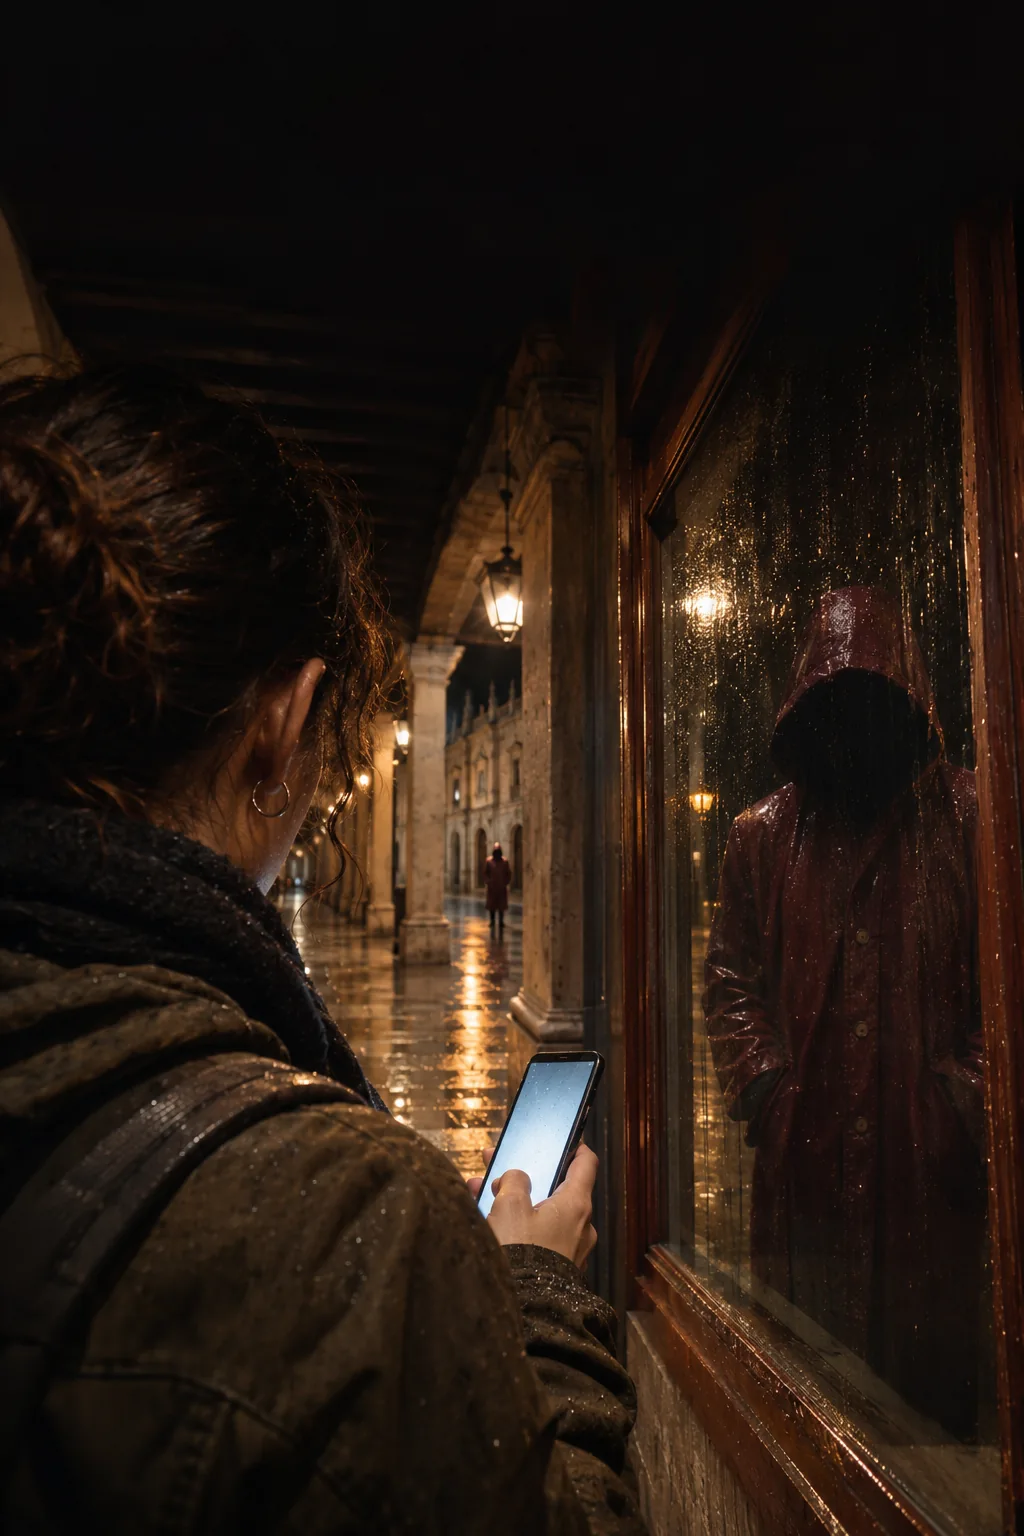
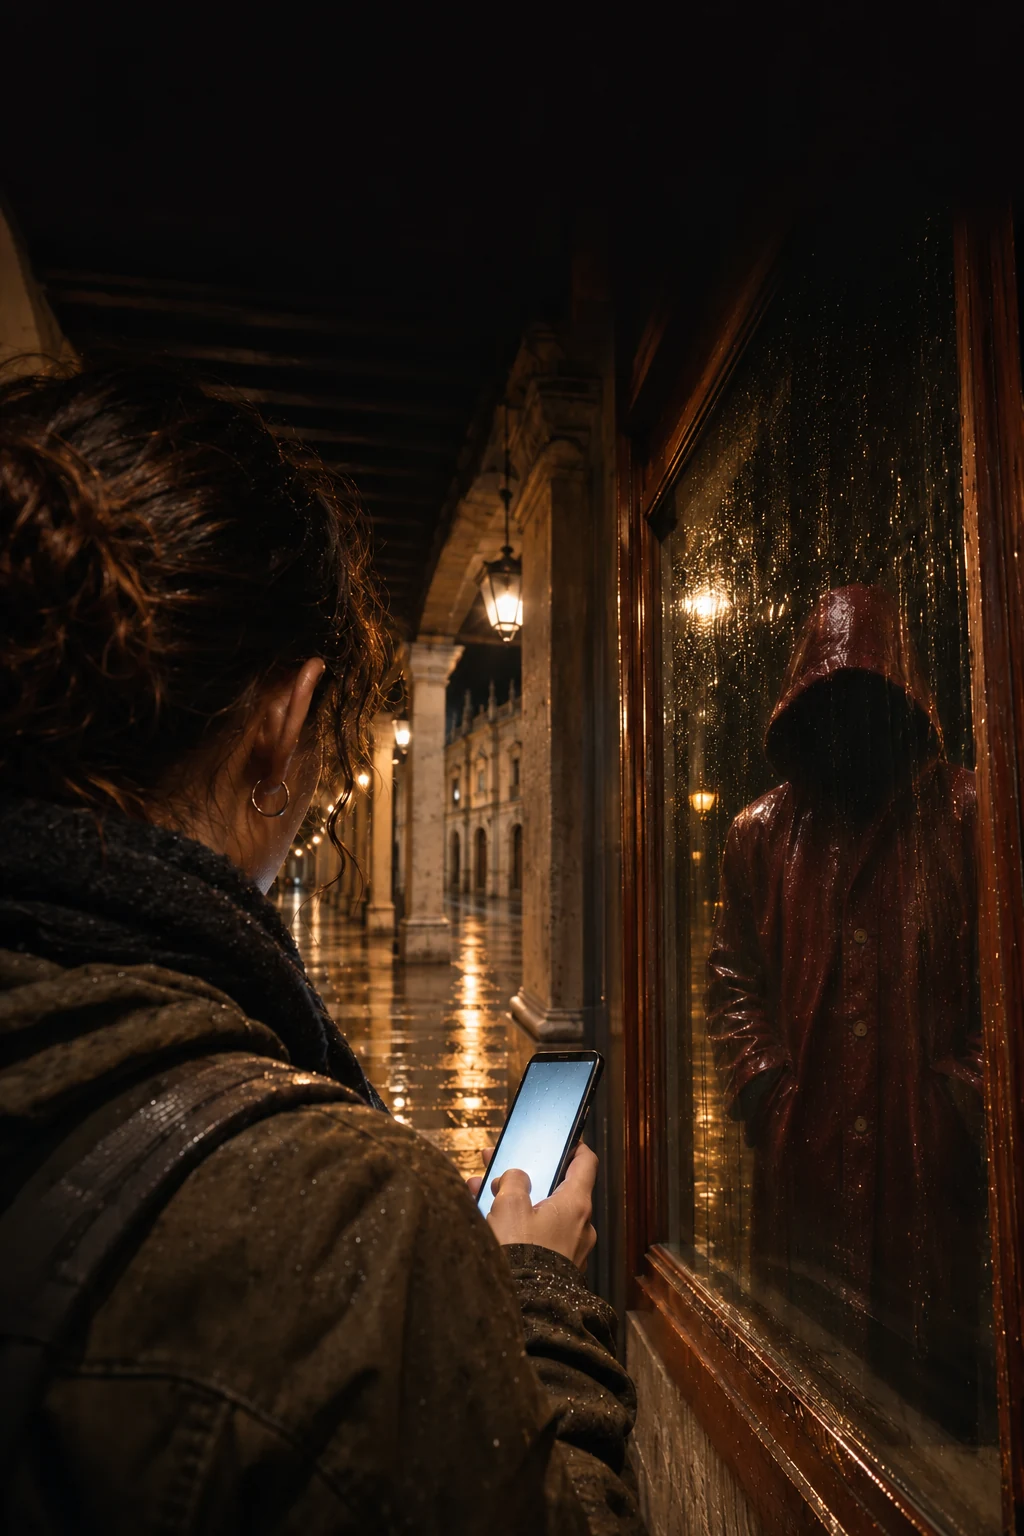
Clarify reflection scene interaction

diff --git a/script.js b/script.js
@@ -11,6 +11,7 @@ const sceneKicker = document.querySelector('#scene-kicker');
 const scenePlace = document.querySelector('#scene-place');
 const sceneTitle = document.querySelector('#story-title');
 const sceneBody = document.querySelector('#scene-body');
+const sceneExploreHint = document.querySelector('#scene-explore-hint');
 const sceneHotspots = document.querySelector('#scene-hotspots');
 const sceneClue = document.querySelector('#scene-clue');
 const choicePrompt = document.querySelector('#choice-prompt');
@@ -78,10 +79,11 @@ const scenes = [
     ]
   },
   {
-    image: 'assets/story/alcala-reflection.webp',
+    image: 'assets/story/alcala-reflection.webp?v=single-cartographer-20261124',
     place: copy('CALLE MAYOR · CERCA DE CASA CERVANTES', 'CALLE MAYOR · NEAR CERVANTES HOUSE'),
     kicker: copy('CALLE MAYOR · 23:24', 'CALLE MAYOR · 11:24 P.M.'),
     title: copy('«Sé a qué hora vuelves».', '“I know what time you go home.”'),
+    exploreHint: copy('Toca el móvil, a la protagonista o al reflejo rojo. Cada toque muestra una pista.', 'Tap the phone, the woman or the red reflection. Each tap reveals a clue.'),
     body: () => cartographerNoticed
         ? localized('Lo señalaste. Ahora aparece más cerca, en una ventana de la Calle Mayor. Te llega un mensaje: «Sé a qué hora vuelves».', 'You pointed him out. Now he appears closer, in a Calle Mayor window. A message arrives: “I know what time you go home.”')
       : riskScore
@@ -318,6 +320,7 @@ function renderScene(index, { languageRefresh = false } = {}) {
   sceneKicker.textContent = sceneValue(scene.kicker);
   scenePlace.textContent = sceneValue(scene.place);
   sceneTitle.textContent = sceneValue(scene.title);
+  sceneExploreHint.textContent = scene.exploreHint ? sceneValue(scene.exploreHint) : t('tapScene');
   sceneBody.textContent = sceneValue(scene.body);
   sceneClue.hidden = true;
   sceneClue.textContent = '';

diff --git a/index.html b/index.html
@@ -25,7 +25,7 @@
   <meta name="twitter:image:alt" content="El Cartógrafo, encapuchado, observa bajo la lluvia una calle nocturna de Alcalá.">
   <link rel="icon" type="image/svg+xml" href="favicon.svg">
   <link rel="stylesheet" href="styles.css?v=landscape-fit-20261124">
-  <script type="module" src="script.js?v=lenguaje-claro-20261124-v2"></script>
+  <script type="module" src="script.js?v=redisenio-escena-reflejo-20261124"></script>
   <script src="visit-counter.js?v=counter-20261123" defer></script>
   <script type="module" src="motion.js?v=alcala-audio-adaptativo-20261123"></script>
 </head>
@@ -90,7 +90,7 @@
       <div class="story__content" id="scene">
         <p class="story__kicker" id="scene-kicker">CALLE MAYOR · 23:17</p>
         <h2 id="story-title" tabindex="-1">¿Subes esta foto ahora?</h2>
-        <p class="story__explore-hint" data-i18n="tapScene">Toca un objeto para ver qué pasa. Desliza la imagen para moverla.</p>
+        <p class="story__explore-hint" id="scene-explore-hint" data-i18n="tapScene">Toca un objeto para ver qué pasa. Desliza la imagen para moverla.</p>
         <p class="story__body copy-justify" id="scene-body">Son las 23:17. Estás en la Calle Mayor, frente a la Casa Natal de Cervantes, número 48. La foto puede mostrar dónde estás, aunque no añadas la ubicación.</p>
         <p class="story__clue copy-justify" id="scene-clue" aria-live="polite" hidden></p>
         <p class="story__prompt" id="choice-prompt">La foto muestra dónde estás. ¿Qué haces?</p>
